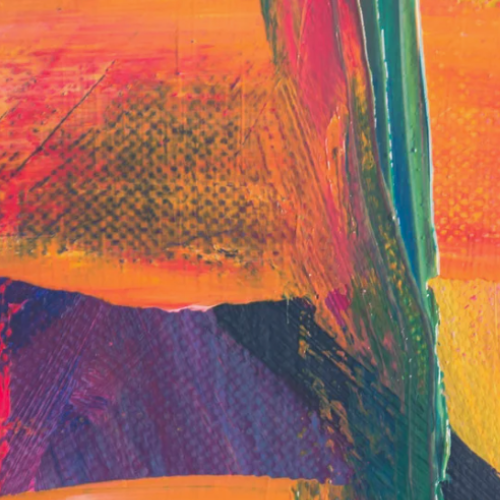
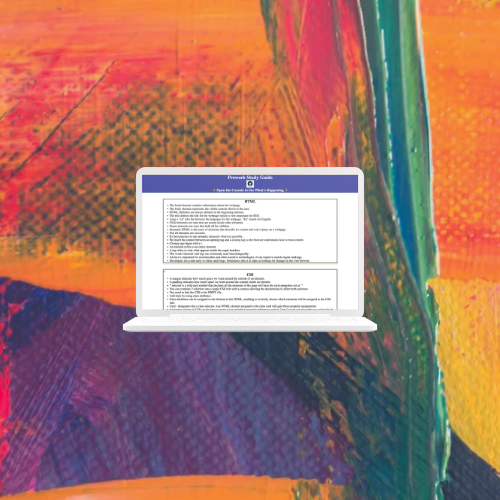
portfolio images changed and hover added to nav links

Changed region(s): [[0.24, 0.33, 0.75, 0.69]]

diff --git a/index.html b/index.html
@@ -30,7 +30,7 @@
 
 
       <div class="collapse navbar-collapse" id="navbarNavDropdown">
-        <ul class="navbar-nav">
+        <ul class="navbar-nav btn">
           <li class="nav-item active">
             <a class="nav-link" href="#">Home <span class="sr-only">(current)</span></a>
           </li>
@@ -70,7 +70,7 @@
     <div class="jumbotron-custom">
       <div class="container">
         <div class="justify-content-between">
-          <h1 class="display-4">Anna Gilthorpe</h1>
+          <h1 class="display-1">Anna Gilthorpe</h1>
           <p class="lead">Web Developer</p>
         </div>
         <!-- </div> -->
@@ -108,7 +108,7 @@
         <div class="col-lg-3 col-md-6 col-sm-12">
           <div class="card h-100">
             <div class="card-custom"></div>
-            <img class="card-img-top" src="images/10.png" alt="Card image cap">
+            <img class="card-img-top" src="images/8.png" alt="Card image cap">
             <div class="card-body">
               <h5 class="card-title mb-3">Pre Work Study Guide</h5>
               <p class="card-text">This Prework Study Guide was created to help support
@@ -122,7 +122,7 @@
         </div>
         <div class="col-lg-3 col-md-6 col-sm-12">
           <div class="card h-100">
-            <img class="card-img-top" src="images/9.png" alt="Card image cap">
+            <img class="card-img-top" src="images/7.png" alt="Card image cap">
             <div class="card-body">
               <h5 class="card-title mb-3">Flex Box & Grid Portfolio</h5>
               <p class="card-text">A portfolio page showcasing my work to potential future employers. It helped me learn
@@ -134,7 +134,7 @@
         </div>
         <div class="col-lg-3 col-md-6 col-sm-12">
           <div class="card h-100">
-            <img class="card-img-top" src="images/8.png" alt="Card image cap">
+            <img class="card-img-top" src="images/10.png" alt="Card image cap">
             <div class="card-body">
               <h5 class="card-title mb-3">Bootstrap Portfolio</h5>
               <p class="card-text">An example of a portfolio page was built using Bootstrap. This page was built to
@@ -145,7 +145,7 @@
         </div>
         <div class="col-lg-3 col-md-6 col-sm-12">
           <div class="card h-100">
-            <img class="card-img-top" src="images/7.png" alt="Card image cap">
+            <img class="card-img-top" src="images/9.png" alt="Card image cap">
             <div class="card-body mb-3">
               <h5 class="card-title">Accessibility</h5>
               <p class="card-text">The aim of this challenge was to refractor an exisiting site owned by a marketing

diff --git a/style.css b/style.css
@@ -1,39 +1,40 @@
 .card-custom {
     font-family: 'Lucida Sans', 'Lucida Sans Regular', 'Lucida Grande', 'Lucida Sans Unicode', Geneva, Verdana, sans-serif;
-    align-items: center;
-    
+    align-items: center;   
 }
-
+/* social icons */
 .social-icons {
     filter: grayscale(1);
 }
+/* button */
 .btn:hover {
     text-align: center;
     vertical-align: middle; 
     box-shadow: 1px 1px 2px 1px rgba(0, 0, 255, .2);
     z-index: 100;
   }
+
+  /* social icons button */
 .btn.social-icons:hover {
     filter: unset;
 }
 
+/* custom nav bar */
 .navbar-custom {
     font-family: 'Lucida Grande'
 
 }
-
+/* custom jumbotron */
 .jumbotron-custom {
     background-image: url('images/hero-banner-avatar-1.png');
     background-repeat: none;
     background-size: 100%;
-    color:  dark grey;
+    color:  white;
     padding: 2rem;
     height: 600px;
  
 }
-h1,h3,h4,h5 {
-   display: flex
-}
+/* media querygit */
 @media (min-width: 1200px) {
 .container {
     max-width: 1540px!important;
